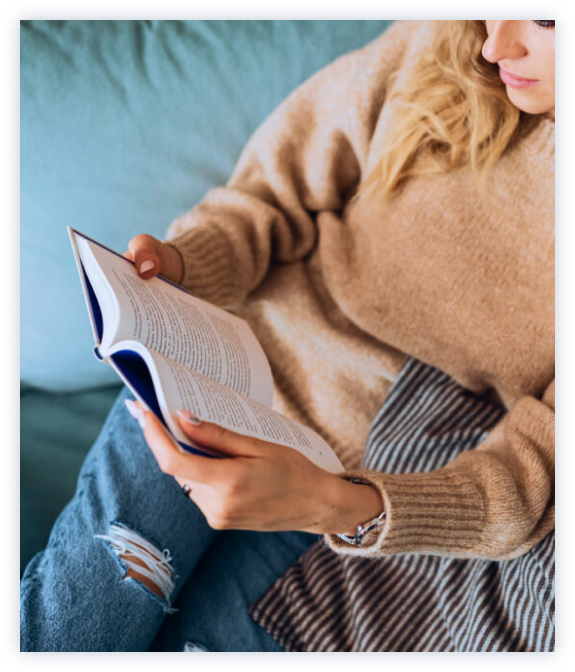
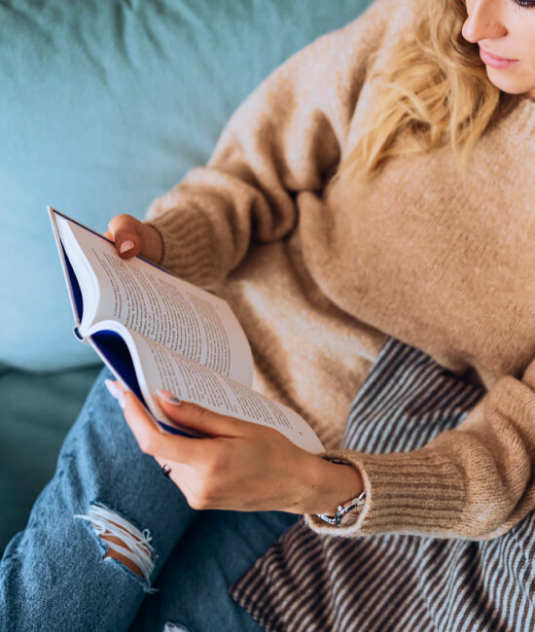
feat: enhance home page with new section and typography updates
- Add a new "What Will You Learn?" section to the home page, featuring a grid of learning objectives.
- Introduce a new color variable for background styling in globals.css.
- Add a new font size variable for improved typography consistency.
- Update utility functions to include the new font size.
- Replace an image in the new section for better visual representation.

diff --git a/app/(home)/page.tsx b/app/(home)/page.tsx
@@ -265,7 +265,8 @@ export default function Home() {
       </section>
       <section className="bg-quaternary px-4">
         <div className="container mx-auto max-w-[1300px] pt-[180px] pb-[140px] flex flex-col gap-[70px] lg:gap-[150px] justify-center lg:flex-row">
-          <div className="w-full min-h-full border-[10px] border-primary max-w-[545px] max-h-[620px]">
+          {/* Image Section */}
+          <div className="w-full min-h-full border-[10px] border-primary max-w-[545px] max-h-[640px]">
             <Image
               src="/images/AboutTheAuthor/image.png"
               alt="book-image"
@@ -510,6 +511,101 @@ export default function Home() {
               height={394}
               className="object-cover w-full h-full"
             />
+          </div>
+        </div>
+      </section>
+      <section className="bg-white px-4">
+        <div className="container mx-auto max-w-[1300px] py-[140px]">
+          {/* Title Section */}
+          <div className="flex flex-col gap-[23px] items-center">
+            <h2 className="text-secondary font-family-cardo text-size-42 leading-50-4 tracking-0 ">
+              What Will You Learn?
+            </h2>
+            <div className="bg-primary w-[50px] h-[3px]" />
+          </div>
+          {/* Body Section */}
+          <div className="w-full flex gap-20 items-center justify-between mt-[90px]">
+            {/* List Section */}
+            <div className="grid grid-cols-2 gap-[30px] w-full max-w-[636px]">
+              {/* Item Section */}
+              <div className=" px-[30px] pt-[30px] pb-[27px] flex flex-col bg-novanary">
+                <span className="flex justify-center items-baseline pt-2 bg-primary rounded-full w-[50px] h-[50px]">
+                  <div className="text-size-23 leading-28-8 tracking-0 text-secondary font-family-cardo">
+                    01
+                  </div>
+                </span>
+                <p
+                  className={cn(
+                    "text-2xl leading-33-6 tracking-0 text-secondary font-family-cardo",
+                    "mt-[30px]"
+                  )}
+                >
+                  Use HDFS & Map Reduce for storing & analyzing data at scale.
+                </p>
+              </div>
+              {/* Item Section */}
+              <div className=" px-[30px] pt-[30px] pb-[27px] flex flex-col bg-novanary">
+                <span className="flex justify-center items-baseline pt-2 bg-primary rounded-full w-[50px] h-[50px]">
+                  <div className="text-size-23 leading-28-8 tracking-0 text-secondary font-family-cardo">
+                    02
+                  </div>
+                </span>
+                <p
+                  className={cn(
+                    "text-2xl leading-33-6 tracking-0 text-secondary font-family-cardo ",
+                    "mt-[30px]"
+                  )}
+                >
+                  Consume streaming data using Spark Streaming, Flink, and
+                  Storm.
+                </p>
+              </div>
+              {/* Item Section */}
+              <div className=" px-[30px] pt-[30px] pb-[27px] flex flex-col bg-novanary">
+                <span className="flex justify-center items-baseline pt-2 bg-primary rounded-full w-[50px] h-[50px]">
+                  <div className="text-size-23 leading-28-8 tracking-0 text-secondary font-family-cardo">
+                    03
+                  </div>
+                </span>
+                <p
+                  className={cn(
+                    "text-2xl leading-33-6 tracking-0 text-secondary font-family-cardo",
+                    "mt-[30px]"
+                  )}
+                >
+                  Choose an <br /> appropriate data storage technology for your
+                  application
+                </p>
+              </div>
+              {/* Item Section */}
+              <div className=" px-[30px] pt-[30px] pb-[27px] flex flex-col bg-novanary">
+                <span className="flex justify-center items-baseline pt-2 bg-primary rounded-full w-[50px] h-[50px]">
+                  <div className="text-size-23 leading-28-8 tracking-0 text-secondary font-family-cardo">
+                    04
+                  </div>
+                </span>
+                <p
+                  className={cn(
+                    "text-2xl leading-33-6 tracking-0 text-secondary font-family-cardo",
+                    "mt-[30px]"
+                  )}
+                >
+                  Analyze non-
+                  <br /> relational data using HBase, Cassandra, <br /> and
+                  MongoDB.
+                </p>
+              </div>
+            </div>
+            {/* Image Section */}
+            <div className="w-full min-h-full border-[10px] border-primary max-w-[555px] max-h-[652px]">
+              <Image
+                src="/images/WhatWillYouLearn/image.png"
+                alt="book-image"
+                width={525}
+                height={632}
+                className="object-cover w-full h-full shadow-lg translate-x-[-30px] translate-y-[-30px]"
+              />
+            </div>
           </div>
         </div>
       </section>

diff --git a/app/globals.css b/app/globals.css
@@ -9,12 +9,14 @@
   --quaternary: #f6f8fc;
   --quinary: #b4c7e7;
   --octonary: #969aa0;
+  --novanary: #f4f8ff;
 
   --size-17: 1.0625rem;
   --size-18: 1.125rem;
   --size-19: 1.1875rem;
   --size-21: 1.3125rem;
   --size-22: 1.375rem;
+  --size-23: 1.4375rem;
   --size-32: 2rem;
   --size-42: 2.625rem;
   --size-45: 2.8125rem;
@@ -61,6 +63,7 @@
   --color-quaternary: var(--quaternary);
   --color-quinary: var(--quinary);
   --color-octonary: var(--octonary);
+  --color-novanary: var(--novanary);
   --font-family-inter: var(--font-inter), ui-sans-serif, system-ui, sans-serif;
   --font-family-cardo: var(--font-cardo), ui-serif, Georgia, serif;
 
@@ -69,6 +72,7 @@
   --text-size-19: var(--size-19);
   --text-size-21: var(--size-21);
   --text-size-22: var(--size-22);
+  --text-size-23: var(--size-23);
   --text-size-32: var(--size-32);
   --text-size-42: var(--size-42);
   --text-size-45: var(--size-45);

diff --git a/lib/utils.ts b/lib/utils.ts
@@ -5,7 +5,7 @@ const twMerge = extendTailwindMerge({
   extend: {
     classGroups: {
       'font-size': [
-          { text: ['size-17', 'size-18', 'size-19', 'size-21', 'size-64', 'size-42', 'size-32', 'size-54', 'size-22', 'size-45'] }
+          { text: ['size-17', 'size-18', 'size-19', 'size-21', 'size-64', 'size-42', 'size-32', 'size-54', 'size-22', 'size-45', 'size-23'] }
       ],
       leading: ['leading-25-5', 'leading-27', 'leading-28-5', 'leading-28-8', 'leading-30-6', 'leading-36', 'leading-78', 'leading-50-4', 'leading-38-4', 'leading-33', 'leading-34-2', 'leading-77', 'leading-21-6', 'leading-26-4', 'leading-33-6', 'leading-54'],
       tracking: ['tracking-0', 'tracking-0-17', 'tracking-0-18', 'tracking-0-38', 'tracking-0-48', 'tracking-0-57', 'tracking-1-2', 'tracking-1-3', 'tracking-0-32'],
